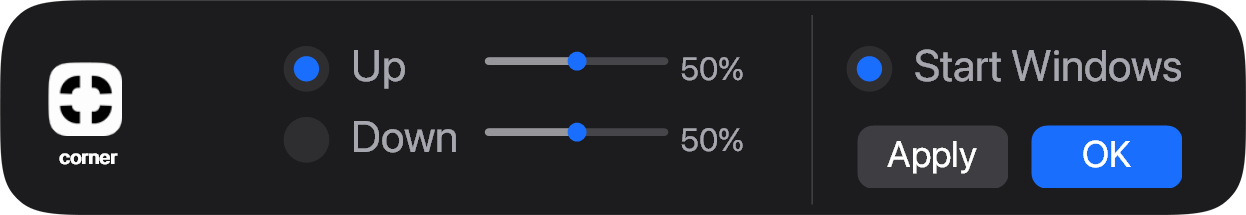
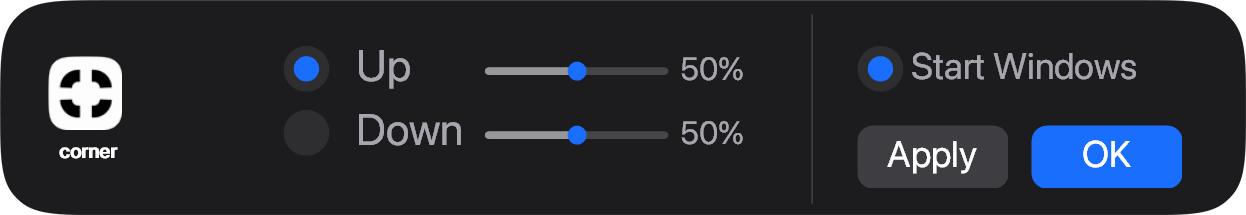
Align settings controls with SVG reference for v1.2.2

diff --git a/src/settings_ui.h b/src/settings_ui.h
@@ -123,7 +123,7 @@ namespace CornerUI {
         bool applyEnabled=dirty();if(bool(IsWindowEnabled(item(Apply)))!=applyEnabled)EnableWindow(item(Apply),applyEnabled);
         bool themeChanged=refreshTheme();
         auto invalidate=[](int id){InvalidateRect(item(id),nullptr,FALSE);};
-        auto percent=[](bool up){RECT r{px(402),px(up?23:65),px(467),px(up?59:101)};InvalidateRect(window,&r,FALSE);};
+        auto percent=[](bool up){RECT r{px(402),px(up?23:61),px(467),px(up?59:97)};InvalidateRect(window,&r,FALSE);};
         if(themeChanged&&backdropWindow)shape();
         if(!displayedValid||themeChanged) {
             InvalidateRect(window,nullptr,FALSE);
@@ -181,12 +181,12 @@ namespace CornerUI {
     }
     static void controls() {
         displayedValid=false;
-        add(L"BUTTON",L"corner: color and appearance",Logo,BS_OWNERDRAW,20,28,64,77);
+        add(L"BUTTON",L"corner: color and appearance",Logo,BS_OWNERDRAW,20,24,64,77);
         add(L"BUTTON",L"Up",Up,BS_OWNERDRAW,167,21,113,38);
-        add(L"BUTTON",L"Down",Down,BS_OWNERDRAW,167,63,117,38);
-        add(L"BUTTON",L"Start Windows",Startup,BS_OWNERDRAW,500,21,232,38);
+        add(L"BUTTON",L"Down",Down,BS_OWNERDRAW,167,59,117,38);
+        add(L"BUTTON",L"Start Windows",Startup,BS_OWNERDRAW,506,21,210,38);
         for(int i=0;i<2;i++) {
-            HWND slider=add(TRACKBAR_CLASSW,i?L"Down percentage":L"Up percentage",i?DownSlider:UpSlider,TBS_HORZ|TBS_NOTICKS|TBS_FIXEDLENGTH,284,i?71:29,112,29);
+            HWND slider=add(TRACKBAR_CLASSW,i?L"Down percentage":L"Up percentage",i?DownSlider:UpSlider,TBS_HORZ|TBS_NOTICKS|TBS_FIXEDLENGTH,284,i?65.0769f:27.0769f,112,29);
             SendMessageW(slider,TBM_SETRANGE,TRUE,MAKELONG(0,100));SendMessageW(slider,TBM_SETPAGESIZE,0,10);SendMessageW(slider,TBM_SETTHUMBLENGTH,px(11),0);
             SendMessageW(slider,TBM_SETPOS,TRUE,i?draft.down:draft.up);
         }
@@ -211,7 +211,8 @@ namespace CornerUI {
             bool chosen=id==Up?draft.top:(id==Down?draft.bottom:draft.startup);
             Gdiplus::SolidBrush outer(pale());g.FillEllipse(&outer,0.0f,5.5f,27.0f,27.0f);
             if(chosen){Gdiplus::SolidBrush inner(blue());g.FillEllipse(&inner,6.0f,11.5f,15.0f,15.0f);}
-            text(g,id==Up?L"Up":(id==Down?L"Down":L"Start Windows"),{40,-1,w-40,h},26,label());
+            float labelX=id==Startup?32.0f:43.0f;
+            text(g,id==Up?L"Up":(id==Down?L"Down":L"Start Windows"),{labelX,-1,w-labelX,h},id==Startup?22.0f:26.0f,label());
         }
     }
     static void drawButton(DRAWITEMSTRUCT* draw) {
@@ -220,8 +221,11 @@ namespace CornerUI {
     static LRESULT sliderDraw(NMCUSTOMDRAW* draw) {
         if(draw->dwDrawStage!=CDDS_PREPAINT)return CDRF_DODEFAULT;
         HWND slider=draw->hdr.hwndFrom;RECT channel{},thumb{};SendMessageW(slider,TBM_GETCHANNELRECT,0,reinterpret_cast<LPARAM>(&channel));SendMessageW(slider,TBM_GETTHUMBRECT,0,reinterpret_cast<LPARAM>(&thumb));
-        float y=(thumb.top+thumb.bottom)*0.5f,x=(thumb.left+thumb.right)*0.5f;
+        float x=(thumb.left+thumb.right)*0.5f;
         RECT bounds{};GetClientRect(slider,&bounds);HDC buffer=CreateCompatibleDC(draw->hdc);HBITMAP bitmap=CreateCompatibleBitmap(draw->hdc,bounds.right,bounds.bottom);
+        // Native trackbar thumb height depends on the Windows theme. Keep the
+        // painted track on the SVG axis instead of inheriting that offset.
+        float y=bounds.bottom*0.5f;
         if(!buffer||!bitmap){if(bitmap)DeleteObject(bitmap);if(buffer)DeleteDC(buffer);return CDRF_DODEFAULT;}
         HGDIOBJ old=SelectObject(buffer,bitmap);
         {
@@ -235,9 +239,9 @@ namespace CornerUI {
     }
     static void paintSurface(HDC target) {
         Gdiplus::Graphics g(target);g.Clear(face());g.ScaleTransform(factor(),factor());g.SetSmoothingMode(Gdiplus::SmoothingModeAntiAlias);
-        Gdiplus::Pen divider(isDark()?Gdiplus::Color(255,62,62,65):Gdiplus::Color(255,230,230,230),1);g.DrawLine(&divider,479.5f,8.5f,479.5f,120.5f);
+        Gdiplus::Pen divider(isDark()?Gdiplus::Color(255,62,62,65):Gdiplus::Color(255,230,230,230),1);g.DrawLine(&divider,479.5f,8.0f,479.5f,120.0f);
         auto up=std::to_wstring(draft.up)+L"%",down=std::to_wstring(draft.down)+L"%";
-        text(g,up.c_str(),{402,23,65,36},19,label());text(g,down.c_str(),{402,65,65,36},19,label());
+        text(g,up.c_str(),{402,23,65,36},19,label());text(g,down.c_str(),{402,61,65,36},19,label());
     }
     static LRESULT CALLBACK proc(HWND w,UINT msg,WPARAM a,LPARAM b) {
         if(msg==WM_CREATE){window=w;dpi=GetDpiForWindow(w);draft=readSettings();if(settingsFileOverride.empty())draft.startup=startupEnabled();if(!draft.enabled){draft.top=false;draft.bottom=false;}applied=draft;controls();shape();return 0;}

diff --git a/README.md b/README.md
@@ -8,9 +8,9 @@
 </p>
 
 <p align="center">
-  <a href="https://github.com/unioneon/corner/releases/download/v1.2.1/corner-1.2.1-Setup-x64.exe"><img src="docs/images/download-setup.svg" alt="Download installer" height="50"></a>
+  <a href="https://github.com/unioneon/corner/releases/download/v1.2.2/corner-1.2.2-Setup-x64.exe"><img src="docs/images/download-setup.svg" alt="Download installer" height="50"></a>
   &nbsp;
-  <a href="https://github.com/unioneon/corner/releases/download/v1.2.1/corner-1.2.1-Portable-x64.zip"><img src="docs/images/download-portable.svg" alt="Get portable ZIP" height="50"></a>
+  <a href="https://github.com/unioneon/corner/releases/download/v1.2.2/corner-1.2.2-Portable-x64.zip"><img src="docs/images/download-portable.svg" alt="Get portable ZIP" height="50"></a>
 </p>
 
 <p align="center">
@@ -54,8 +54,8 @@ artwork based on those captures. [Artwork details](docs/design/POSTER.md).*
 
 ## Get started
 
-1. Install [corner Setup](https://github.com/unioneon/corner/releases/download/v1.2.1/corner-1.2.1-Setup-x64.exe),
-   or extract the complete [portable ZIP](https://github.com/unioneon/corner/releases/download/v1.2.1/corner-1.2.1-Portable-x64.zip)
+1. Install [corner Setup](https://github.com/unioneon/corner/releases/download/v1.2.2/corner-1.2.2-Setup-x64.exe),
+   or extract the complete [portable ZIP](https://github.com/unioneon/corner/releases/download/v1.2.2/corner-1.2.2-Portable-x64.zip)
    and run `corner.exe`.
 2. Click the tray icon and choose **Settings**. The desktop and Start menu
    shortcuts open the same window.

diff --git a/docs/README.ru.md b/docs/README.ru.md
@@ -3,8 +3,8 @@
 **Плавные углы для рабочего стола Windows.** Верх и низ настраиваются отдельно,
 результат виден сразу, а после закрытия настроек утилита остаётся в трее.
 
-[Скачать установщик](https://github.com/unioneon/corner/releases/download/v1.2.1/corner-1.2.1-Setup-x64.exe) ·
-[Portable ZIP](https://github.com/unioneon/corner/releases/download/v1.2.1/corner-1.2.1-Portable-x64.zip) ·
+[Скачать установщик](https://github.com/unioneon/corner/releases/download/v1.2.2/corner-1.2.2-Setup-x64.exe) ·
+[Portable ZIP](https://github.com/unioneon/corner/releases/download/v1.2.2/corner-1.2.2-Portable-x64.zip) ·
 [English](../README.md)
 
 ![corner в тёмной теме](images/settings-dark.png)

diff --git a/docs/RELEASE_NOTES.md b/docs/RELEASE_NOTES.md
@@ -1,4 +1,11 @@
-# corner 1.2.1
+# corner 1.2.2
+
+- Aligned the settings controls with the supplied SVG layout.
+- Corrected the lower row spacing, logo position and Start Windows alignment.
+- Kept slider tracks on a consistent vertical axis across Windows themes.
+- Window dimensions, linking strategy and saved preferences are unchanged.
+
+## corner 1.2.1
 
 - Corners now remain visible in browser fullscreen, including YouTube, by default.
 - Added **Fullscreen → Show corners / Hide corners** to the logo menu.
